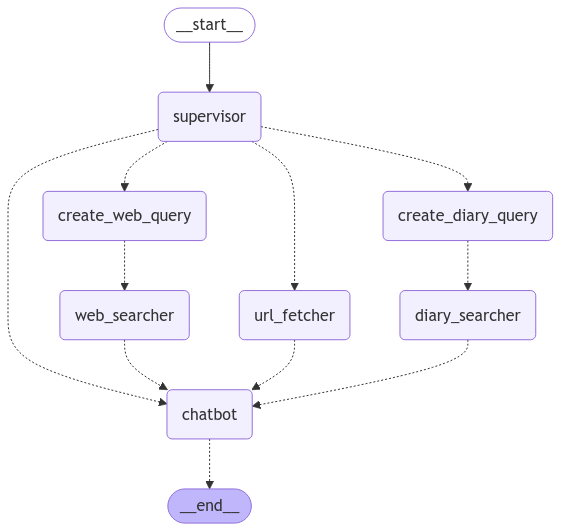
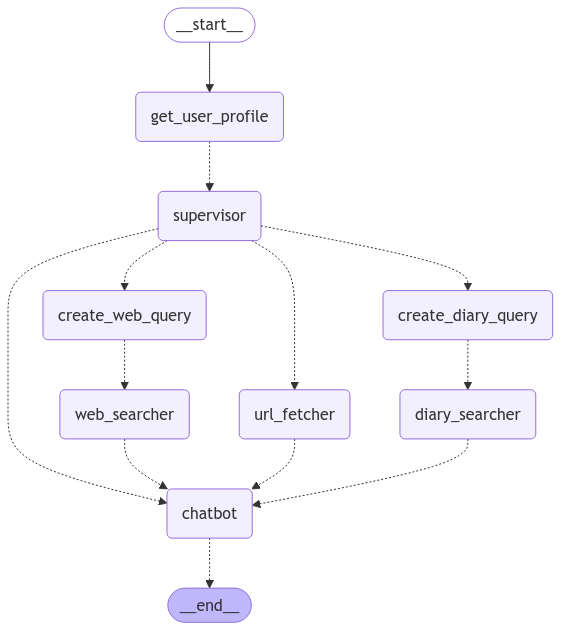
ユーザプロファイル取得をnode化する

diff --git a/src/api/chatbot/agent/__init__.py b/src/api/chatbot/agent/__init__.py
@@ -5,8 +5,8 @@ from operator import add
 from typing import Annotated, Literal
 
 import pytz
-from chatbot.agent.prompt import get_character_prompt
 from chatbot.agent.tools import azure_ai_search, google_search
+from chatbot.database import UsersCosmosDB
 from langchain import hub
 from langchain_anthropic import ChatAnthropic
 from langchain_core.messages import AIMessage
@@ -47,7 +47,19 @@ class State(TypedDict):
     userid: str
     documents: Annotated[list, add] = []
     query: str = ""
+    profile: dict = {}
 
+def get_user_profile_node(state: State) -> Command[Literal["supervisor"]]:
+    print("--- Get User Profile Node ---")
+    cosmos = UsersCosmosDB()
+    result = cosmos.fetch_profile(state["userid"])
+    # プロファイルデータを整形
+    if isinstance(result, list) and result:
+        user_profile = result[0].get("profile", {})
+
+    return Command(
+        goto="supervisor",
+        update={"profile": user_profile})
 
 def supervisor_node(state: State) -> Command[Literal["create_web_query", "create_diary_query", "url_fetcher", "chatbot"]]:
     """
@@ -100,14 +112,19 @@ def chatbot_node(state: State) -> Command[Literal["__end__"]]:
     print("--- Chatbot Node ---")
     llm = ChatGoogleGenerativeAI(model="gemini-1.5-pro", temperature=1.0)
     # llm = ChatAnthropic(model="claude-3-5-sonnet-latest")
-    prompt = get_character_prompt(state["userid"])
+
+    # プロンプトはLangchain Hubから取得
+    # https://smith.langchain.com/hub/tomodo1773/sister_edinet
+    template = hub.pull("tomodo1773/sister_edinet")
+    current_datetime = datetime.datetime.now(pytz.timezone("Asia/Tokyo")).strftime("%Y-%m-%d %H:%M:%S")
+    prompt = template.partial(current_datetime=current_datetime,user_profile=state["profile"])
+
     chatbot_chain = prompt | llm | StrOutputParser() | remove_trailing_newline
     content = chatbot_chain.invoke({"messages": state["messages"], "documents": state["documents"]})
     return Command(
         goto= "__end__",
         update={"messages": [AIMessage(content=content)]},
     )
-
 
 def create_web_query_node(state: State) -> Command[Literal["web_searcher"]]:
     print("--- Create Web Query Node ---")
@@ -166,7 +183,8 @@ class ChatbotAgent:
     def __init__(self) -> None:
 
         graph_builder = StateGraph(State)
-        graph_builder.add_edge(START, "supervisor")
+        graph_builder.add_edge(START, "get_user_profile")
+        graph_builder.add_node("get_user_profile", get_user_profile_node)
         graph_builder.add_node("supervisor", supervisor_node)
         graph_builder.add_node("chatbot", chatbot_node)
         graph_builder.add_node("create_web_query", create_web_query_node)
@@ -199,7 +217,7 @@ if __name__ == "__main__":
 
     agent_graph = ChatbotAgent()
 
-    # agent_graph.create_image()
+    agent_graph.create_image()
     history = []
 
     while True:
